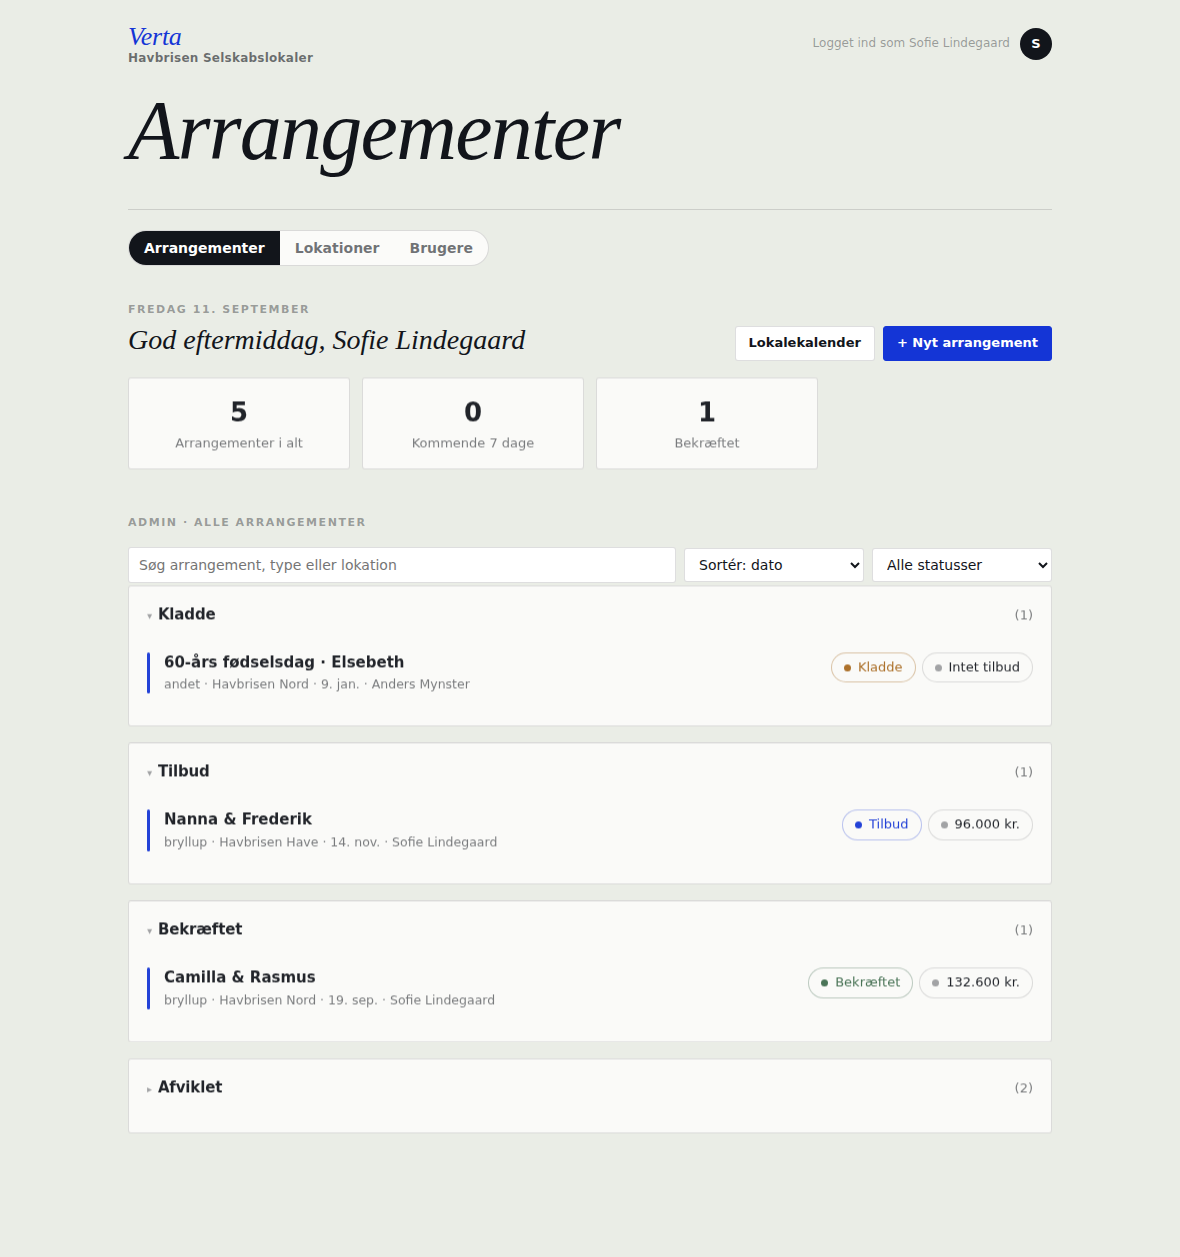
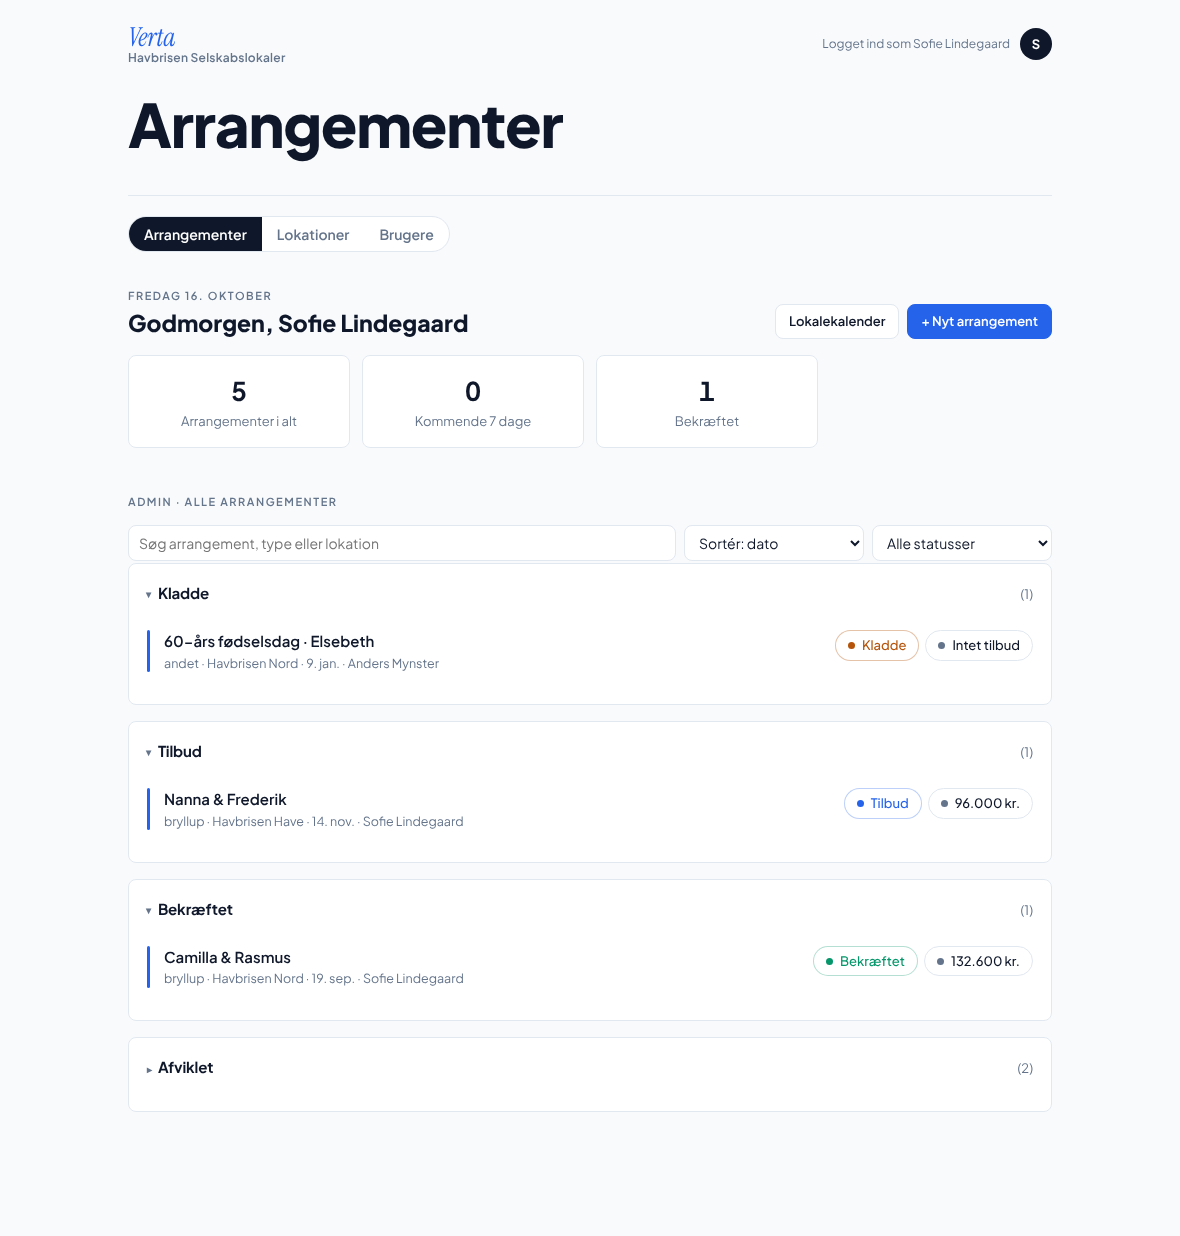
Punkt 1: tilgængelighed + sidste rester af det gamle design
Tre fund fra en fornyet gennemgang af hele produktet, alle rettet efter
aftale:

- Tilgængelighed: --ink-45/--ink-40 (den "svage" gråtone til eyebrows,
  felt-labels, tabel-headere) havde kun ~2,7:1 kontrast mod hvid/lys
  baggrund — under WCAG AA's 4,5:1-krav for normal tekst. Der er reelt
  ikke plads til en tydeligt lysere, stadig AA-sikker gråtone ved siden
  af den eksisterende "dæmpet"-farve (#64748B, 4,87:1), så de to er
  slået sammen til én gennemgående AA-sikker grå på tværs af
  marketingsiden, appen og roadmap.html. Hierarkiet mellem "dæmpet" og
  "svag" tekst bevares i stedet via størrelse/vægt/tracking (versaler,
  spacing), som allerede var i brug de fleste steder.
- De tre rigtige app-skærmbilleder på /saadan-virker-det (admin-forside,
  koordinator-forside, kunde-oversigt) var optaget FØR Nordic
  Precision-redesignet og viste stadig den gamle beige/kursiv-stil,
  selvom selve app'en for længst er skiftet. Alle 6 skærmbilleder i
  /screenshots (de tre brugte + tre i reserve) er genoptaget mod det
  redesignede app/index.html via en nyopbygget mock-Supabase-testsele
  (data.js + mock-supabase.js, en let PostgREST-lignende motor med
  samme seed-data som Havbrisen Selskabslokaler i schema.sql), så de nu
  matcher det faktiske produkt 1:1.
- docs/admin-preview.html er bevidst IKKE opdateret — den er markeret
  som et rent historisk referencedokument i CLAUDE.md, bruges aldrig
  live, og linkes ikke fra noget sted.
[…]

diff --git a/roadmap.html b/roadmap.html
@@ -10,7 +10,7 @@
 <link href="https://fonts.googleapis.com/css2?family=Plus+Jakarta+Sans:wght@400;500;600;700;800&family=Inter:wght@400;500;600;700&family=Instrument+Serif:ital@1&display=swap" rel="stylesheet">
 <style>
 :root{
-  --ink:#0F172A; --ink-60:#64748B; --ink-40:#94A3B8;
+  --ink:#0F172A; --ink-60:#64748B; --ink-40:#64748B;
   --line:#E2E8F0; --paper:#F8FAFC; --card:#FFFFFF;
   --blue:#2563EB; --amber:#B45309; --moss:#059669; --radius:8px;
 }

diff --git a/app/index.html b/app/index.html
@@ -9,7 +9,7 @@
 <link href="https://fonts.googleapis.com/css2?family=Plus+Jakarta+Sans:wght@400;500;600;700;800&family=Inter:wght@400;500;600;700&family=Instrument+Serif:ital@1&display=swap" rel="stylesheet">
 <style>
 :root{
-  --ink:#0F172A; --ink-60:#64748B; --ink-40:#94A3B8;
+  --ink:#0F172A; --ink-60:#64748B; --ink-40:#64748B;
   --line:#E2E8F0; --paper:#F8FAFC; --card:#FFFFFF;
   --blue:#2563EB; --amber:#B45309; --moss:#059669; --radius:8px;
 }

diff --git a/funktioner.html b/funktioner.html
@@ -16,7 +16,7 @@
 <link href="https://fonts.googleapis.com/css2?family=Plus+Jakarta+Sans:wght@400;500;600;700;800&family=Inter:wght@400;500;600;700&family=Instrument+Serif:ital@1&display=swap" rel="stylesheet">
 <style>
 :root{
-  --ink:#0F172A; --ink-70:#64748B; --ink-45:#94A3B8;
+  --ink:#0F172A; --ink-70:#64748B; --ink-45:#64748B;
   --line:#E2E8F0; --line-strong:#CBD5E1;
   --paper:#F8FAFC; --card:#FFFFFF;
   --blue:#2563EB; --blue-soft:#EFF4FF;

diff --git a/index.html b/index.html
@@ -16,7 +16,7 @@
 <link href="https://fonts.googleapis.com/css2?family=Plus+Jakarta+Sans:wght@400;500;600;700;800&family=Inter:wght@400;500;600;700&family=Instrument+Serif:ital@1&display=swap" rel="stylesheet">
 <style>
 :root{
-  --ink:#0F172A; --ink-70:#64748B; --ink-45:#94A3B8;
+  --ink:#0F172A; --ink-70:#64748B; --ink-45:#64748B;
   --line:#E2E8F0; --line-strong:#CBD5E1;
   --paper:#F8FAFC; --card:#FFFFFF;
   --blue:#2563EB; --blue-soft:#EFF4FF;

diff --git a/kontakt.html b/kontakt.html
@@ -16,7 +16,7 @@
 <link href="https://fonts.googleapis.com/css2?family=Plus+Jakarta+Sans:wght@400;500;600;700;800&family=Inter:wght@400;500;600;700&family=Instrument+Serif:ital@1&display=swap" rel="stylesheet">
 <style>
 :root{
-  --ink:#0F172A; --ink-70:#64748B; --ink-45:#94A3B8;
+  --ink:#0F172A; --ink-70:#64748B; --ink-45:#64748B;
   --line:#E2E8F0; --line-strong:#CBD5E1;
   --paper:#F8FAFC; --card:#FFFFFF;
   --blue:#2563EB; --blue-soft:#EFF4FF;

diff --git a/pris.html b/pris.html
@@ -16,7 +16,7 @@
 <link href="https://fonts.googleapis.com/css2?family=Plus+Jakarta+Sans:wght@400;500;600;700;800&family=Inter:wght@400;500;600;700&family=Instrument+Serif:ital@1&display=swap" rel="stylesheet">
 <style>
 :root{
-  --ink:#0F172A; --ink-70:#64748B; --ink-45:#94A3B8;
+  --ink:#0F172A; --ink-70:#64748B; --ink-45:#64748B;
   --line:#E2E8F0; --line-strong:#CBD5E1;
   --paper:#F8FAFC; --card:#FFFFFF;
   --blue:#2563EB; --blue-soft:#EFF4FF;

diff --git a/saadan-virker-det.html b/saadan-virker-det.html
@@ -16,7 +16,7 @@
 <link href="https://fonts.googleapis.com/css2?family=Plus+Jakarta+Sans:wght@400;500;600;700;800&family=Inter:wght@400;500;600;700&family=Instrument+Serif:ital@1&display=swap" rel="stylesheet">
 <style>
 :root{
-  --ink:#0F172A; --ink-70:#64748B; --ink-45:#94A3B8;
+  --ink:#0F172A; --ink-70:#64748B; --ink-45:#64748B;
   --line:#E2E8F0; --line-strong:#CBD5E1;
   --paper:#F8FAFC; --card:#FFFFFF;
   --blue:#2563EB; --blue-soft:#EFF4FF;

diff --git a/sikkerhed.html b/sikkerhed.html
@@ -16,7 +16,7 @@
 <link href="https://fonts.googleapis.com/css2?family=Plus+Jakarta+Sans:wght@400;500;600;700;800&family=Inter:wght@400;500;600;700&family=Instrument+Serif:ital@1&display=swap" rel="stylesheet">
 <style>
 :root{
-  --ink:#0F172A; --ink-70:#64748B; --ink-45:#94A3B8;
+  --ink:#0F172A; --ink-70:#64748B; --ink-45:#64748B;
   --line:#E2E8F0; --line-strong:#CBD5E1;
   --paper:#F8FAFC; --card:#FFFFFF;
   --blue:#2563EB; --blue-soft:#EFF4FF;
